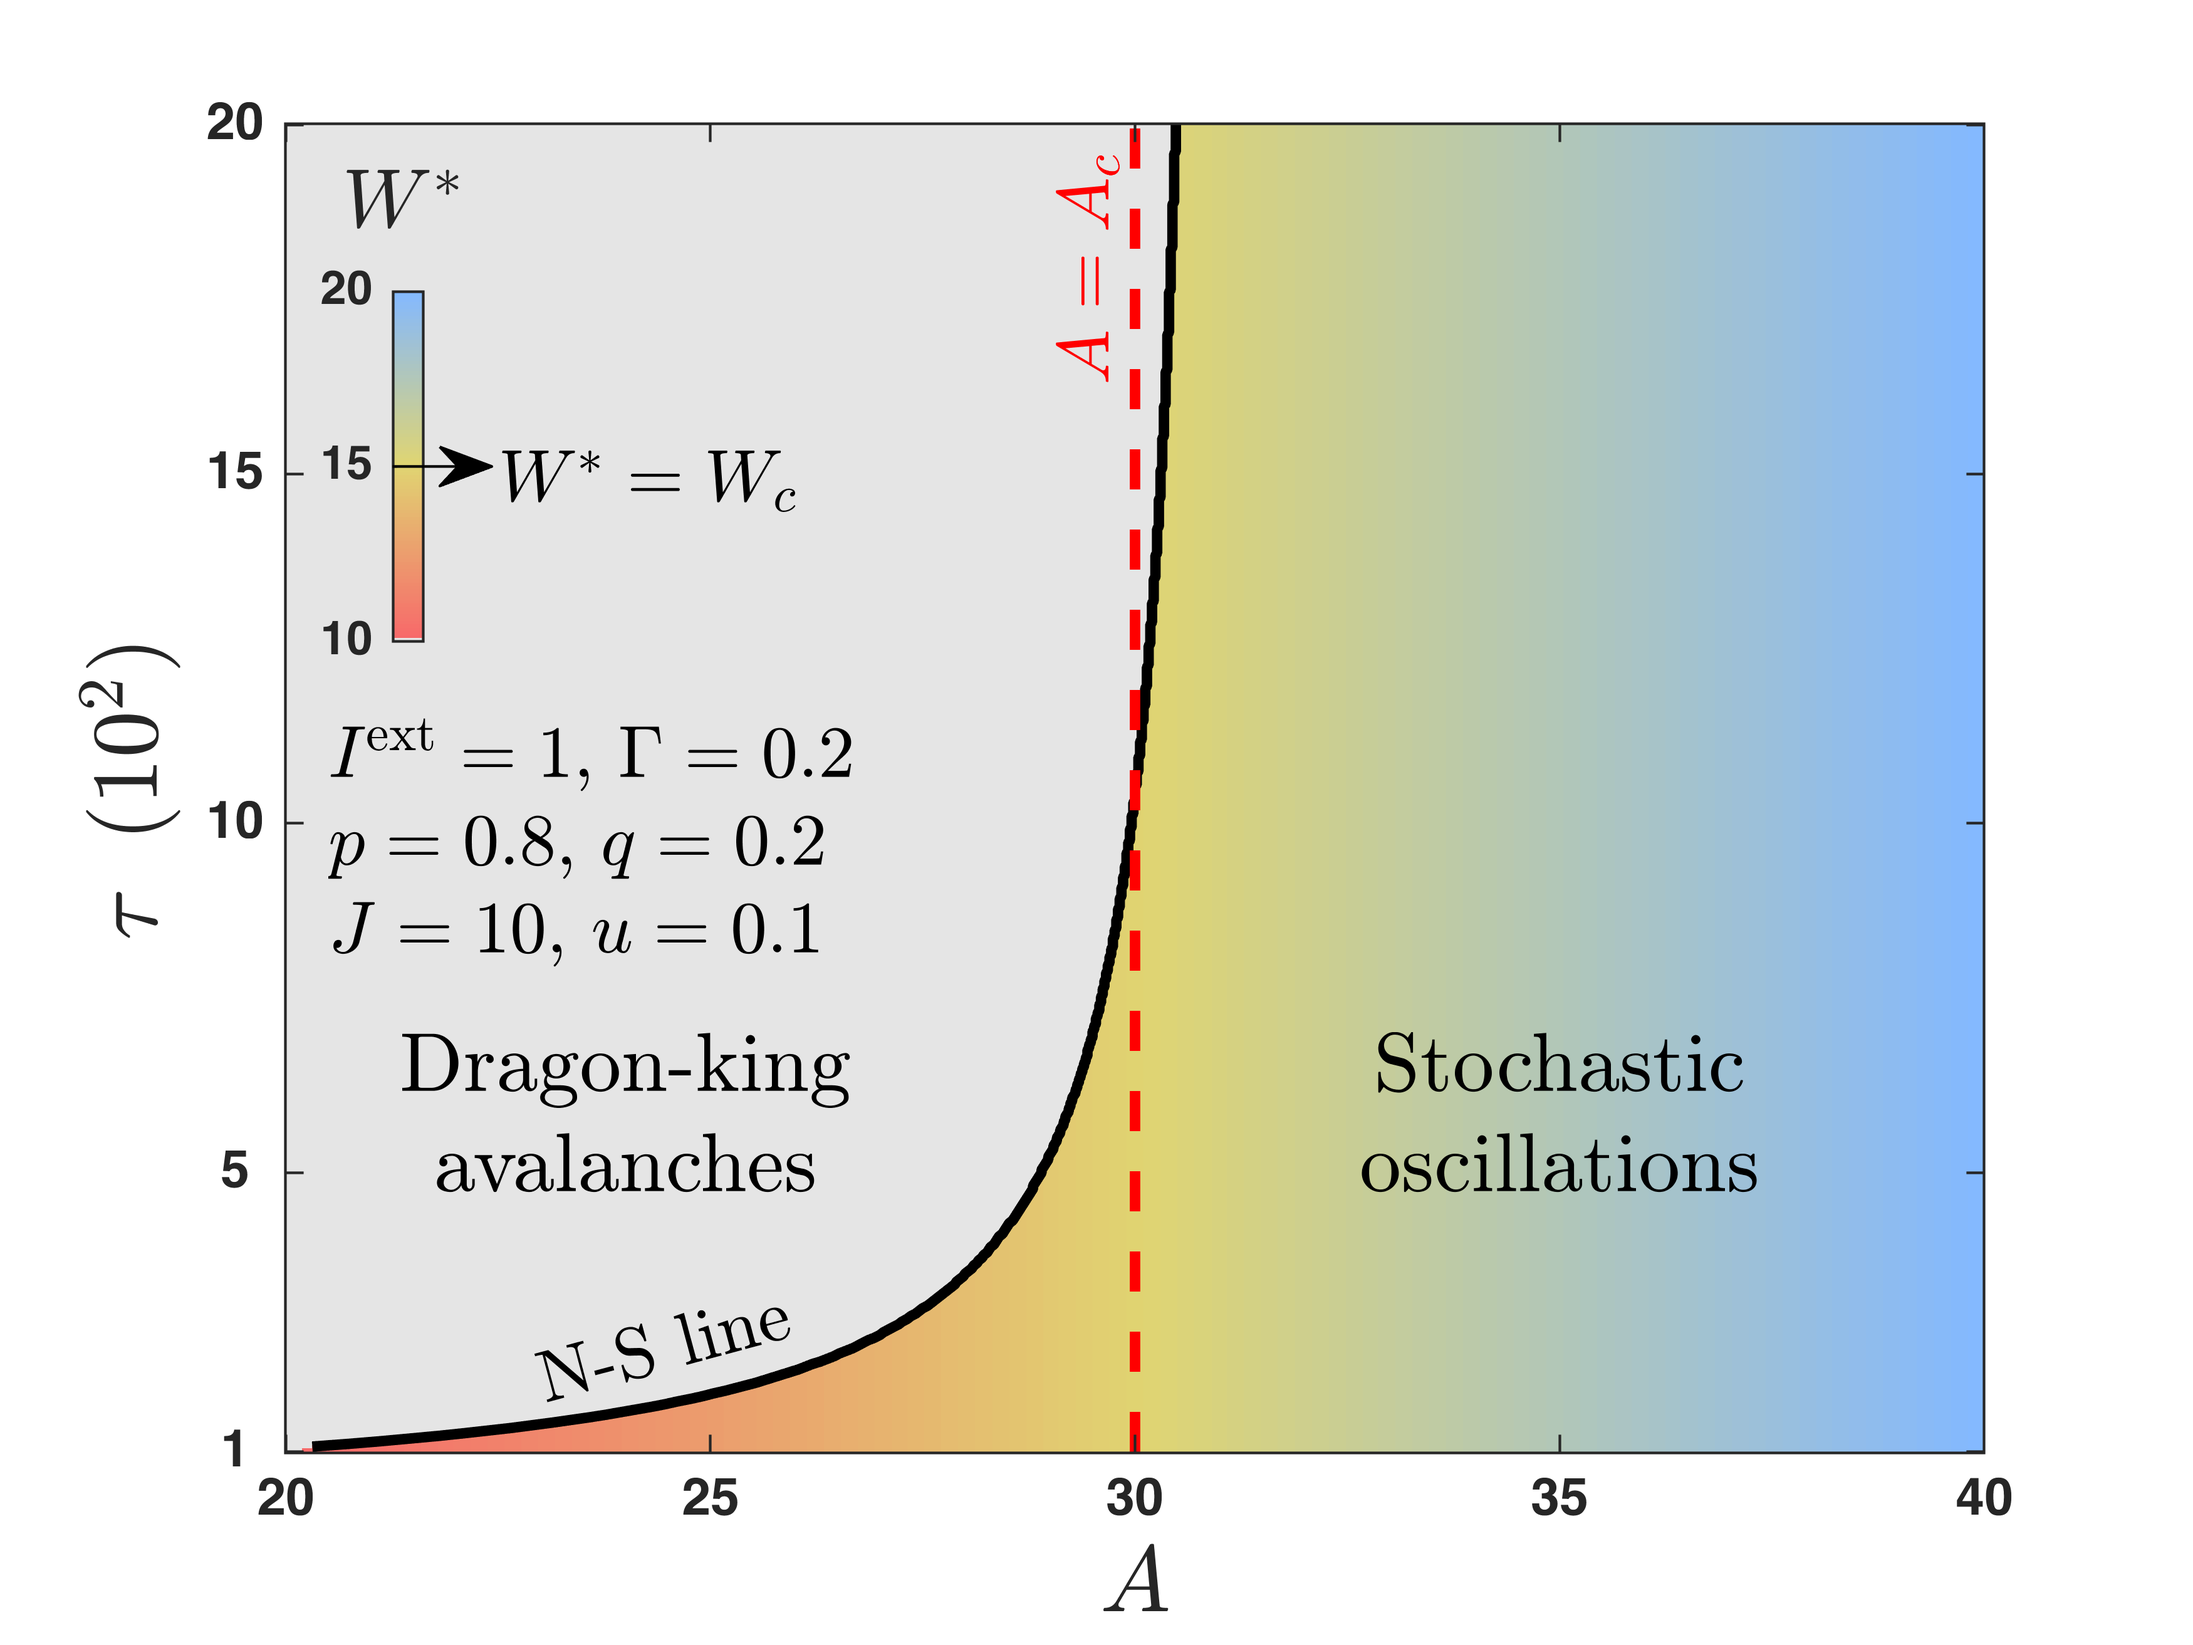
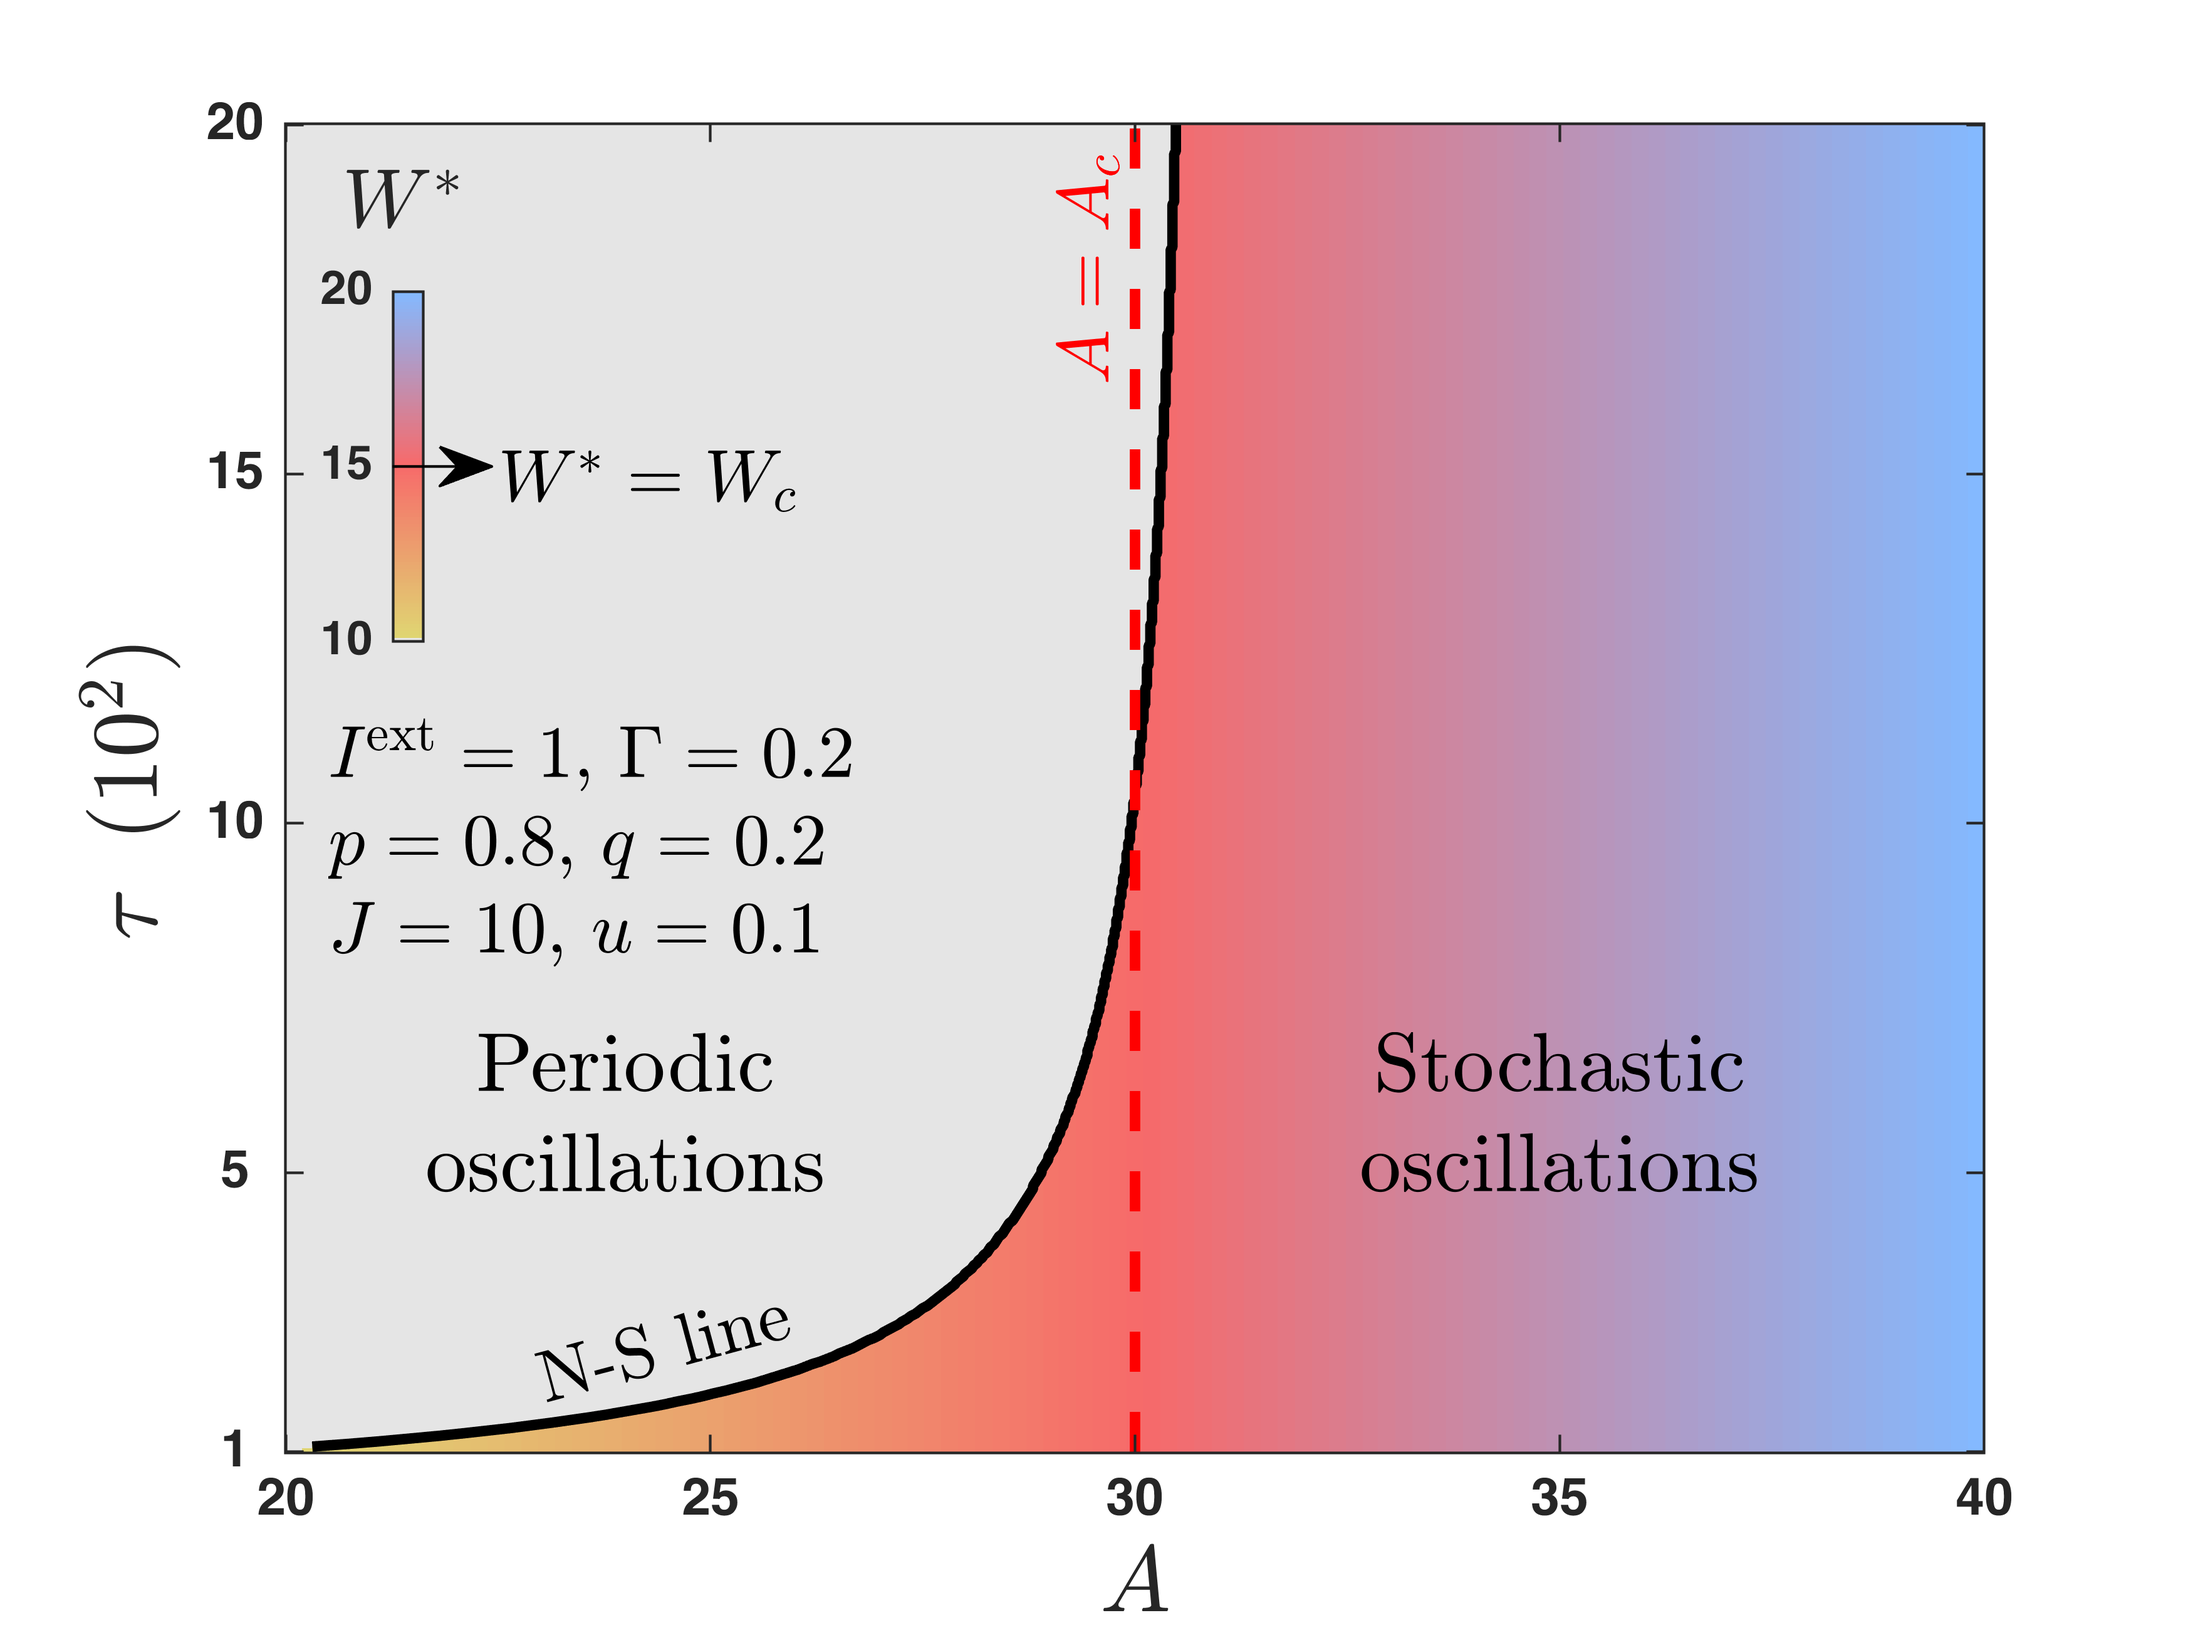
little improv

diff --git a/examples/EI_SOqC_2taus_network_phasediag.m b/examples/EI_SOqC_2taus_network_phasediag.m
@@ -56,8 +56,9 @@ lh_ns = plot(ax1,lca.x,lca.y,'-k','LineWidth',2,'DisplayName','N-S bifurcation')
 lh_ac = plot(ax1,A_c(par,p2Range(:,2)),p2Range(:,2),'--r','LineWidth',2,'DisplayName','$A_c$');
 colormap(fh,[0.9.*ones(1,3);brewerCMap(100,4)]);%colormap(fh,[0.8.*ones(1,3);brewerCMap(100,4)])
 cb=colorbar(ax1,'Position', [0.14 0.5 0.014167 0.21286],'AxisLocation','in');
-set(cb,'Ticks',minmax(cb.Ticks),'TickLabels',{'supercritical','quasicritical'});
-set(cb.Label,'String','$W^*$','Rotation',0,'FontSize',16,'Interpreter','latex','Position',[0.367,25.98,0]);
+set(cb,'Ticks',minmax(cb.Ticks),'TickLabels',{[cb.TickLabels{1},' (super)'],[cb.TickLabels{end},' (SOqC)']},'TickLabelInterpreter','latex','FontSize',11);
+set(cb.Title,'String','$\theta^*$','Rotation',0,'FontSize',16,'Interpreter','latex');%,'Position',[0.367,25.98,0]);
+cb.Title.Position(1)=cb.Title.Position(1)+5;
 set(ax1,'CLim',minmax(fp.(fp_to_plot){1}(:)'),'XTick',20:5:40,'YTick',unique([100,0:500:2000]));
 ax1.YTickLabel = ax1.YTick./1e2;
 xlabel('$A$','Interpreter','latex','FontSize',18);
@@ -75,7 +76,75 @@ annotation(fh,'arrow',[0.331785714285714 0.274642857142857],[0.760476190476191 0
 % annotation(fh,'arrow',[cb.Position(1), cb.Position(1)+cb.Position(3)*3.2],cb.Position(2).*ones(1,2));
 % text(ax1,22.5,1060,'$W^*=W_c$','Interpreter','latex','HorizontalAlignment','left','VerticalAlignment','top','FontSize',14);
 
-saveFigure(gcf, '..\fig\phasediag_2taus.png', 'png', false, {}, 600)
+saveFigure(gcf, '..\fig\phasediag_2taus_thetaS_color', 'png', false, {}, 600)
+
+%%
+
+fp_to_plot = 'xS';
+
+
+fh = figure('Renderer','opengl');
+ax1 = axes;
+ih = plotManifoldXY(ax1,p1Range,p2Range,fp.(fp_to_plot){1},'imagesc',{},false);hold(ax1,'on');
+lh_ns = plot(ax1,lca.x,lca.y,'-k','LineWidth',2,'DisplayName','N-S bifurcation');
+lh_ac = plot(ax1,A_c(par,p2Range(:,2)),p2Range(:,2),'--r','LineWidth',2,'DisplayName','$A_c$');
+colormap(fh,[0.9.*ones(1,3);flipud(brewerCMap(100,4))]);%colormap(fh,[0.8.*ones(1,3);brewerCMap(100,4)])
+cb=colorbar(ax1,'Position', [0.14 0.5 0.014167 0.21286],'AxisLocation','in');
+set(cb,'Ticks',minmax(cb.Ticks),'TickLabels',{[cb.TickLabels{1},' ($\rho^*\sim\rho_c$)'],[cb.TickLabels{end},' (super)']},'TickLabelInterpreter','latex','FontSize',11);
+set(cb.Title,'String','$\rho^*$','Rotation',0,'FontSize',16,'Interpreter','latex');%,'Position',[0.367,25.98,0]);
+cb.Title.Position(1)=cb.Title.Position(1)+5;
+set(ax1,'CLim',minmax(fp.(fp_to_plot){1}(:)'),'XTick',20:5:40,'YTick',unique([100,0:500:2000]));
+ax1.YTickLabel = ax1.YTick./1e2;
+xlabel('$A$','Interpreter','latex','FontSize',18);
+ylabel('$\tau_\theta\,\,\,(10^2)$','Interpreter','latex','FontSize',18);
+parTxt = strrep(strrep(strrep(getParamString(par,-2),'I','I^{\rm ext}'),'G','\Gamma'),'tauW','\tau_w');
+text(ax1,lh_ac.XData(end-10),lh_ac.YData(end-10),'$A=A_c$','FontSize',14,'Interpreter','latex','Rotation',-60,'HorizontalAlignment','left','VerticalAlignment','top','Color','r');
+text(ax1,lca.x(1),lca.y(1),'N-S line','FontSize',14,'Interpreter','latex','Rotation',-10,'HorizontalAlignment','right','VerticalAlignment','top');
+text(ax1,20.5,140,parTxt,'Interpreter','latex','HorizontalAlignment','left','VerticalAlignment','bottom','FontSize',14)
+text(ax1,27,900,'Periodic oscillations','Interpreter','latex','HorizontalAlignment','left','VerticalAlignment','top','FontSize',16,'Rotation',-30);
+text(ax1,36,1900,{'Stochastic', 'oscillations'},'Interpreter','latex','HorizontalAlignment','left','VerticalAlignment','top','FontSize',16,'Rotation',-30);
+text(ax1,25.9,1600,{'Quasicritical','fluctuations'},'Interpreter','latex','HorizontalAlignment','left','VerticalAlignment','middle','FontSize',16,'Rotation',-42);
+text(ax1,30.44,950,{'$\rho^*\sim\rho_c$','$W^*\sim W_c$','$\theta^*\sim I^{\rm ext}$'},'Interpreter','latex','HorizontalAlignment','left','VerticalAlignment','bottom','FontSize',16,'Rotation',-23);
+% annotation(fh,'arrow',[0.739642857142856 0.843214285714285],[0.410000000000003 0.369047619047619]);
+annotation(fh,'arrow',[0.331785714285714 0.274642857142857],[0.760476190476191 0.884285714285715]);
+% annotation(fh,'arrow',[cb.Position(1), cb.Position(1)+cb.Position(3)*3.2],cb.Position(2).*ones(1,2));
+% text(ax1,22.5,1060,'$W^*=W_c$','Interpreter','latex','HorizontalAlignment','left','VerticalAlignment','top','FontSize',14);
+
+saveFigure(gcf, '..\fig\phasediag_2taus_rhoS_color', 'png', false, {}, 600)
+
+%%
+
+fp_to_plot = 'yS';
+
+
+fh = figure('Renderer','opengl');
+ax1 = axes;
+ih = plotManifoldXY(ax1,p1Range,p2Range,fp.(fp_to_plot){1},'imagesc',{},false);hold(ax1,'on');
+lh_ns = plot(ax1,lca.x,lca.y,'-k','LineWidth',2,'DisplayName','N-S bifurcation');
+lh_ac = plot(ax1,A_c(par,p2Range(:,2)),p2Range(:,2),'--r','LineWidth',2,'DisplayName','$A_c$');
+colormap(fh,[0.9.*ones(1,3);flipud(brewerCMap(100,4))]);%colormap(fh,[0.8.*ones(1,3);brewerCMap(100,4)])
+cb=colorbar(ax1,'Position', [0.14 0.5 0.014167 0.21286],'AxisLocation','in');
+set(cb,'Ticks',minmax(cb.Ticks),'TickLabels',{[cb.TickLabels{1},' ($W^*\sim W_c$)'],[cb.TickLabels{end},' (super)']},'TickLabelInterpreter','latex','FontSize',11);
+set(cb.Title,'String','$W^*$','Rotation',0,'FontSize',16,'Interpreter','latex');%,'Position',[0.367,25.98,0]);
+cb.Title.Position(1)=cb.Title.Position(1)+5;
+set(ax1,'CLim',minmax(fp.(fp_to_plot){1}(:)'),'XTick',20:5:40,'YTick',unique([100,0:500:2000]));
+ax1.YTickLabel = ax1.YTick./1e2;
+xlabel('$A$','Interpreter','latex','FontSize',18);
+ylabel('$\tau_\theta\,\,\,(10^2)$','Interpreter','latex','FontSize',18);
+parTxt = strrep(strrep(strrep(getParamString(par,-2),'I','I^{\rm ext}'),'G','\Gamma'),'tauW','\tau_w');
+text(ax1,lh_ac.XData(end-10),lh_ac.YData(end-10),'$A=A_c$','FontSize',14,'Interpreter','latex','Rotation',-60,'HorizontalAlignment','left','VerticalAlignment','top','Color','r');
+text(ax1,lca.x(1),lca.y(1),'N-S line','FontSize',14,'Interpreter','latex','Rotation',-10,'HorizontalAlignment','right','VerticalAlignment','top');
+text(ax1,20.5,140,parTxt,'Interpreter','latex','HorizontalAlignment','left','VerticalAlignment','bottom','FontSize',14)
+text(ax1,27,900,'Periodic oscillations','Interpreter','latex','HorizontalAlignment','left','VerticalAlignment','top','FontSize',16,'Rotation',-30);
+text(ax1,36,1900,{'Stochastic', 'oscillations'},'Interpreter','latex','HorizontalAlignment','left','VerticalAlignment','top','FontSize',16,'Rotation',-30);
+text(ax1,25.9,1600,{'Quasicritical','fluctuations'},'Interpreter','latex','HorizontalAlignment','left','VerticalAlignment','middle','FontSize',16,'Rotation',-42);
+text(ax1,30.44,950,{'$\rho^*\sim\rho_c$','$W^*\sim W_c$','$\theta^*\sim I^{\rm ext}$'},'Interpreter','latex','HorizontalAlignment','left','VerticalAlignment','bottom','FontSize',16,'Rotation',-23);
+% annotation(fh,'arrow',[0.739642857142856 0.843214285714285],[0.410000000000003 0.369047619047619]);
+annotation(fh,'arrow',[0.331785714285714 0.274642857142857],[0.760476190476191 0.884285714285715]);
+% annotation(fh,'arrow',[cb.Position(1), cb.Position(1)+cb.Position(3)*3.2],cb.Position(2).*ones(1,2));
+% text(ax1,22.5,1060,'$W^*=W_c$','Interpreter','latex','HorizontalAlignment','left','VerticalAlignment','top','FontSize',14);
+
+saveFigure(gcf, '..\fig\phasediag_2taus_WS_color', 'png', false, {}, 600)
 
 return
 

diff --git a/examples/EI_SOqC_network_phasediag.m b/examples/EI_SOqC_network_phasediag.m
@@ -51,7 +51,7 @@ ax1 = axes;
 ih = plotManifoldXY(ax1,p1Range,p2Range,fp.yS{1},'imagesc',{},false);hold(ax1,'on');
 lh_ns = plot(ax1,lca.x,lca.y,'-k','LineWidth',2,'DisplayName','N-S bifurcation');
 lh_ac = plot(ax1,A_c(par,p2Range(:,2),p2Range(:,2)),p2Range(:,2),'--r','LineWidth',2,'DisplayName','$A_c$');
-colormap(fh,[0.9.*ones(1,3);flipud(brewerCMap(100,4))]);%colormap(fh,[0.8.*ones(1,3);brewerCMap(100,4)])
+colormap(fh,[0.9.*ones(1,3);flipud(brewerCMap(100,5))]);%colormap(fh,[0.8.*ones(1,3);brewerCMap(100,4)])
 cb=colorbar(ax1,'Position', [0.179 0.61 0.014167 0.21286]);
 set(cb.Label,'String','$W^*$','Rotation',0,'FontSize',16,'Interpreter','latex','Position',[0.367,20.98,0]);
 set(ax1,'CLim',minmax(fp.yS{1}(:)'),'XTick',20:5:40,'YTick',unique([100,0:500:2000]));
@@ -62,12 +62,12 @@ parTxt = strrep(strrep(getParamString(par,-2),'I','I^{\rm ext}'),'G','\Gamma');
 text(ax1,lh_ac.XData(end-10),lh_ac.YData(end-10),'$A=A_c$','FontSize',14,'Interpreter','latex','Rotation',90,'HorizontalAlignment','right','VerticalAlignment','bottom','Color','r');
 text(ax1,lh_ns.XData(10),lh_ac.YData(10),'N-S line','FontSize',14,'Interpreter','latex','Rotation',15,'HorizontalAlignment','left','VerticalAlignment','bottom');
 text(ax1,20.5,1150,parTxt,'Interpreter','latex','HorizontalAlignment','left','VerticalAlignment','top','FontSize',14)
-text(ax1,24,700,{'Dragon-king','avalanches'},'Interpreter','latex','HorizontalAlignment','center','VerticalAlignment','top','FontSize',16);
+text(ax1,24,700,{'Periodic','oscillations'},'Interpreter','latex','HorizontalAlignment','center','VerticalAlignment','top','FontSize',16);
 text(ax1,35,700,{'Stochastic', 'oscillations'},'Interpreter','latex','HorizontalAlignment','center','VerticalAlignment','top','FontSize',16);
 annotation(fh,'arrow',[cb.Position(1), cb.Position(1)+cb.Position(3)*3.2],(cb.Position(2)+cb.Position(4)/2).*ones(1,2));
 text(ax1,22.5,1550,'$W^*=W_c$','Interpreter','latex','HorizontalAlignment','left','VerticalAlignment','top','FontSize',14);
 
-saveFigure(gcf, '..\fig\phasediag_eq_taus.png', 'png', false, {}, 600)
+saveFigure(gcf, '..\fig\phasediag_eq_taus', 'png', false, {}, 600)
 
 return
 

diff --git a/func/brewerCMap.m b/func/brewerCMap.m
@@ -11,8 +11,10 @@ function c = brewerCMap(N,colorScheme,randColors)
         T = hex2rgb({'#a6cee3','#1f78b4','#b2df8a','#33a02c','#fb9a99','#e31a1c','#fdbf6f','#ff7f00','#cab2d6','#6a3d9a','#ffff99','#b15928'});
     elseif colorScheme == 3
         T = hex2rgb({'#67001f','#b2182b','#d6604d','#f4a582','#fddbc7','#f7f7f7','#d1e5f0','#92c5de','#4393c3','#2166ac','#053061'});
-    else%if colorScheme == 4
+    elseif colorScheme == 4
         T = hex2rgb({'#84b9ff','#e0d572','#f76a6a'});
+    else%if colorScheme == 5
+        T = hex2rgb({'#84b9ff','#f76a6a','#e0d572'});
     end
     nBase = size(T,1);
     if N <= nBase
